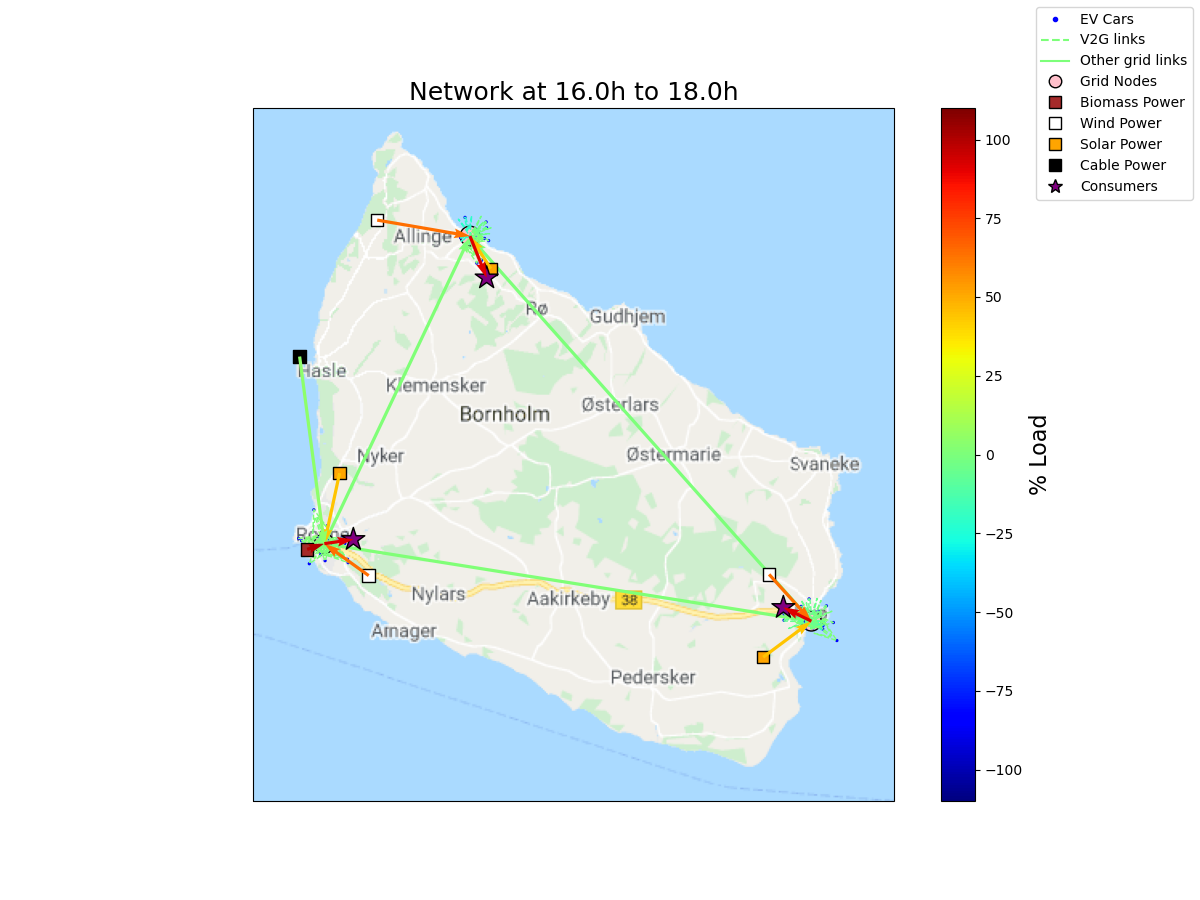
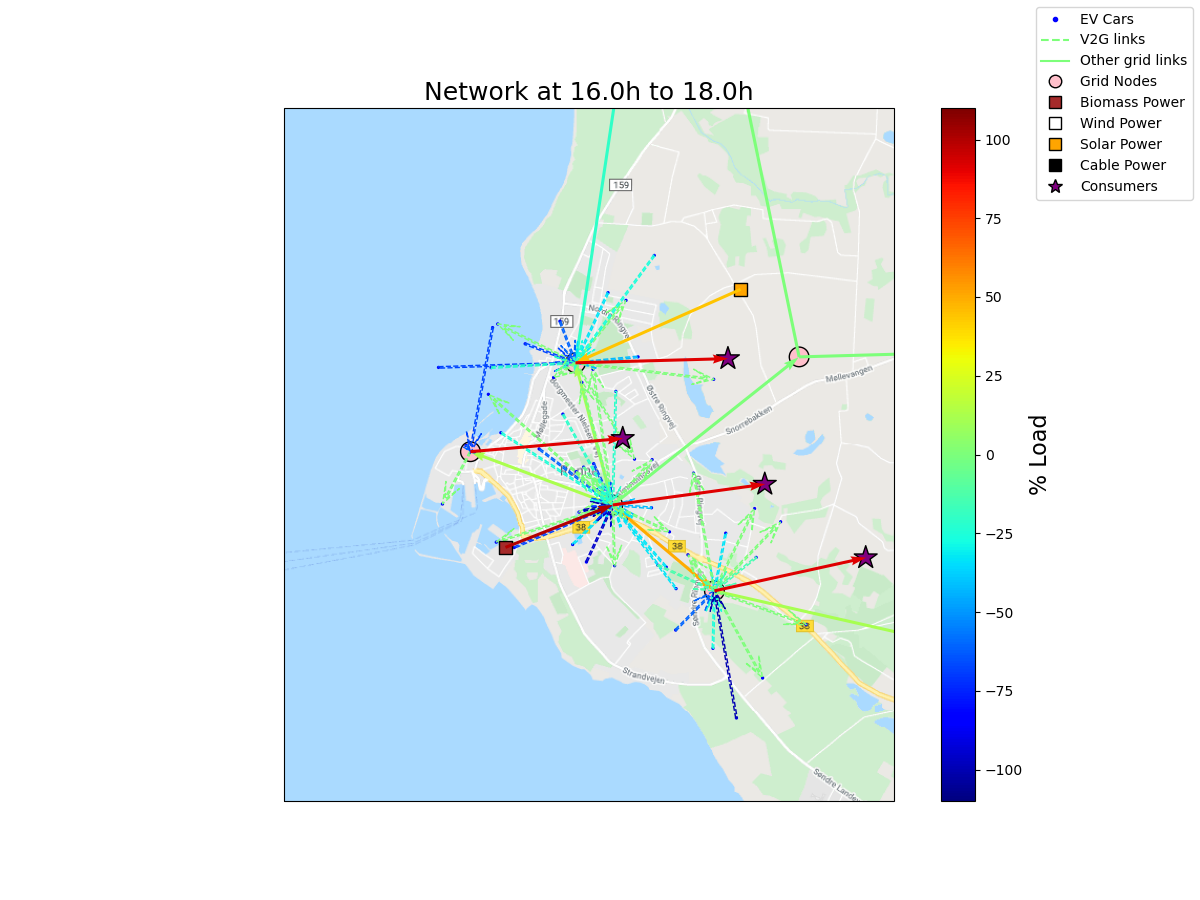
Full Network implementation; very plausible results

Changed region(s): [[0.185, 0.0933, 0.7708, 0.9022]]

diff --git a/Lib/grid_gen.py b/Lib/grid_gen.py
@@ -44,11 +44,11 @@ grid_links_base = grid_links_base.astype({"LinkId": int,
 
 
 if cfg.grid_setting == 1:
-    grid.loc["Ronne"] = [14.7110, 55.0966, 1500, "60kV Station", "Pink", 200]
+    grid.loc["Ronne"] = [14.713889, 55.097778, 1500, "60kV Station", "Pink", 200]
     grid_links_base["LinkId"] = grid_links_base.index
 
 elif cfg.grid_setting == 3:
-    grid.loc["Ronne"] = [14.7110, 55.0966, 1500, "60kV Station", "Pink", 200]
+    grid.loc["Ronne"] = [14.713889, 55.097778, 1500, "60kV Station", "Pink", 200]
     grid.loc["Nexo"]  = [15.1291, 55.0585, 1500, "60kV Station", "Pink", 200]
     grid.loc["Tejn"]  = [14.8360, 55.2474, 1500, "60kV Station", "Pink", 200]
     
@@ -57,22 +57,43 @@ elif cfg.grid_setting == 3:
     grid_links_base.loc[2, ["conn1", "conn2", "Cap"]] = ["Nexo",  "Tejn", 100000]
     
     grid_links_base["LinkId"] = grid_links_base.index
+    
 elif cfg.grid_setting == -1:
-    pass
-
-
-
-
-
-
-
-
-
-
-
-
-
-#%% grid links data frame --> time independent base
+    grid.loc["Akirkeby"]     = [14.897778, 55.068056, 1500, "60kV", "Pink", 200]
+    grid.loc["Allinge"]      = [14.800278, 55.268333, 1500, "60kV", "Pink", 200]
+    grid.loc["Bodilsker"]    = [15.065833, 55.063056, 1500, "60kV", "Pink", 200]
+    grid.loc["Dalslunde"]    = [15.050833, 55.100000, 1500, "60kV", "Pink", 200]
+    grid.loc["Gudhjem"]      = [14.953056, 55.199167, 1500, "60kV", "Pink", 200]
+    grid.loc["Hasle"]        = [14.723333, 55.170278, 1500, "60kV", "Pink", 200]
+    grid.loc["Nexo"]         = [15.115833, 55.063056, 1500, "60kV", "Pink", 200]
+    grid.loc["Olsker"]       = [14.795556, 55.231944, 1500, "60kV", "Pink", 200]
+    grid.loc["Osterlars"]    = [14.935000, 55.153333, 1500, "60kV", "Pink", 200]
+    grid.loc["Poulsker"]     = [15.055833, 55.022222, 1500, "60kV", "Pink", 200]
+    grid.loc["Ronne"]        = [14.713889, 55.097778, 1500, "60kV", "Pink", 200]
+    grid.loc["Ronne Nord"]   = [14.707778, 55.111111, 1500, "60kV", "Pink", 200]
+    grid.loc["Ronne Syd"]    = [14.730556, 55.089722, 1500, "60kV", "Pink", 200]
+    grid.loc["Snorrebakken"] = [14.744444, 55.111667, 1500, "60kV", "Pink", 200]
+    grid.loc["Svaneke"]      = [15.136111, 55.134722, 1500, "60kV", "Pink", 200]
+    grid.loc["Vesthavnen"]   = [14.690556, 55.102778, 1500, "60kV", "Pink", 200]
+    
+    grid_links_base.loc[0] = [0, "Ronne", "Ronne Syd", 10000]
+    grid_links_base.loc[1] = [1, "Ronne", "Ronne Nord", 10000]
+    grid_links_base.loc[2] = [2, "Ronne", "Vesthavnen", 10000]
+    grid_links_base.loc[3] = [3, "Ronne", "Snorrebakken", 10000]
+    grid_links_base.loc[4] = [4, "Ronne Nord", "Hasle", 10000]
+    grid_links_base.loc[5] = [5, "Snorrebakken", "Hasle", 10000]
+    grid_links_base.loc[6] = [6, "Ronne Syd", "Akirkeby", 10000]
+    grid_links_base.loc[7] = [7, "Akirkeby", "Bodilsker", 10000]
+    grid_links_base.loc[8] = [8, "Bodilsker", "Poulsker", 10000]
+    grid_links_base.loc[9] = [9, "Bodilsker", "Nexo", 10000]
+    grid_links_base.loc[10] = [10, "Nexo", "Svaneke", 10000]
+    grid_links_base.loc[11] = [11, "Dalslunde", "Bodilsker", 10000]
+    grid_links_base.loc[12] = [12, "Dalslunde", "Svaneke", 10000]
+    grid_links_base.loc[13] = [13, "Dalslunde", "Osterlars", 10000]
+    grid_links_base.loc[14] = [14, "Hasle", "Olsker", 10000]
+    grid_links_base.loc[15] = [15, "Olsker", "Allinge", 10000]
+    grid_links_base.loc[16] = [16, "Olsker", "Osterlars", 10000]
+    grid_links_base.loc[17] = [17, "Osterlars", "Gudhjem", 10000]
 
 
 

diff --git a/Lib/pp_gen.py b/Lib/pp_gen.py
@@ -34,7 +34,7 @@ pp_data_base = pd.DataFrame(columns=["PPId",
 
 
 if cfg.grid_setting == 1:
-    pp_data_base.loc["Biomass"]    = [0, "Biomass",    14.6963, 55.0938, "Biomass", 
+    pp_data_base.loc["Kraftvaerk"] = [0, "Kraftvaerk",    14.6963, 55.0938, "Biomass", 
                                       "sustainable", "Ronne", "Brown", 80]
     pp_data_base.loc["WindWest"]   = [1, "WindWest",   14.7491, 55.0809, "Wind",
                                       "sustainable", "Ronne", "White", 80]
@@ -43,8 +43,8 @@ if cfg.grid_setting == 1:
     pp_data_base.loc["SolarWest"]  = [3, "SolarWest",  14.7241, 55.1312, "Solar",
                                       "sustainable", "Ronne", "Orange", 80]
 elif cfg.grid_setting == 3:
-    pp_data_base.loc["Biomass"]    = [0, "Biomass",    14.6963, 55.0938, "Biomass", 
-                                      "sustainable", "Ronne", "Brown", 80]
+    pp_data_base.loc["Kraftvaerk"] = \
+      [0, "Kraftvaerk", 14.6963, 55.0938, "Biomass", "sustainable", "Ronne", "Brown", 80]
     pp_data_base.loc["WindWest"]   = [1, "WindWest",   14.7491, 55.0809, "Wind",
                                       "sustainable", "Ronne", "White", 80]
     pp_data_base.loc["WindNorth"]  = [2, "WindNorth",  14.7564, 55.2552, "Wind",
@@ -64,10 +64,31 @@ elif cfg.grid_setting == 3:
     pp_data_base.loc["Cable"]      = [7, "Cable",      14.6898, 55.1884, "Cable",
                                       "unsustainable", "Ronne", "Black", 80]
 elif cfg.grid_setting == -1:
-    pass
+    pp_data_base.loc["Kraftvaerk", ["Long","Lat","Type","Sustainability","GridConn","Color","Size"]] = \
+      [14.6963, 55.0938, "Biomass", "sustainable", "Ronne", "Brown", 80]
+    
+    pp_data_base.loc["WindNorth", ["Long","Lat","Type","Sustainability","GridConn","Color","Size"]] = \
+      [14.740725, 55.237306, "Wind",    "sustainable", "Olsker", "White", 80]
+    pp_data_base.loc["WindWest", ["Long","Lat","Type","Sustainability","GridConn","Color","Size"]] = \
+      [14.74993, 55.18200, "Wind",    "sustainable", "Hasle", "White", 80]
+    pp_data_base.loc["WindSouth", ["Long","Lat","Type","Sustainability","GridConn","Color","Size"]] = \
+      [14.84812, 55.05616, "Wind",    "sustainable", "Akirkeby", "White", 80]
+    pp_data_base.loc["WindEast", ["Long","Lat","Type","Sustainability","GridConn","Color","Size"]] = \
+      [15.02331, 55.05478, "Wind",    "sustainable", "Bodilsker", "White", 80]
 
-
-
+    pp_data_base.loc["SolarNorth", ["Long","Lat","Type","Sustainability","GridConn","Color","Size"]] = \
+      [14.84209, 55.24465, "Solar",    "sustainable", "Olsker", "Orange", 80]
+    pp_data_base.loc["SolarWest", ["Long","Lat","Type","Sustainability","GridConn","Color","Size"]] = \
+      [14.73486, 55.11800, "Solar",    "sustainable", "Ronne Nord", "Orange", 80]
+    pp_data_base.loc["SolarEast", ["Long","Lat","Type","Sustainability","GridConn","Color","Size"]] = \
+      [15.09376, 55.01898, "Solar",    "sustainable", "Poulsker", "Orange", 80]
+      
+    pp_data_base.loc["SeaCable", ["Long","Lat","Type","Sustainability","GridConn","Color","Size"]] = \
+      [14.68108, 55.18534, "Cable",    "unsustainable", "Hasle", "Black", 80]
+    
+    pp_data_base["PPId"] = range(9)
+    pp_data_base["Name"] = pp_data_base.index
+    
 pp_data_base = pp_data_base.astype({"PPId": int,
                                     "Name": str,
                                     "Long": float, 

diff --git a/Lib/SimConfig.py b/Lib/SimConfig.py
@@ -14,10 +14,10 @@ import numpy as np
 seed = 2
 
 # car config
-N = 50  # number of cars
+N = 100  # number of cars
 
 # grid config
-grid_setting = 3
+grid_setting = -1
 
 # consumer config kW
 cons_mean = 30000
@@ -30,14 +30,17 @@ elif grid_setting == 3:
     rel_car_distribution = [2, 2, 1]
     rel_cons_distribution = [3, 1, 1]
 elif grid_setting == -1:
-    raise NotImplementedError("Only grid settings are 1 and 3")
+    rel_car_distribution = [2, 1.5, 0.2, 0, 0.7, 1.6, 3.6, 0.2,
+                             0.25, 0.7, 6, 3, 3, 0, 1, 1]
+    rel_cons_distribution = [2, 1.5, 0.2, 0, 0.7, 1.6, 3.6, 0.2,
+                             0.25, 0.7, 6, 3, 3, 0, 1, 1]
     
 
 # powerplant config
 max_caps = {"Biomass": 15000,
             "Wind": 20000,
             "Solar": 5000,
-            "Cable": 50000,
+            "Cable": 25000,
             }
 
 # power cost

diff --git a/verify_TimeDep.py b/verify_TimeDep.py
@@ -31,7 +31,7 @@ axs[0].plot(cfg.t, sus_sum["sustainable"],
 
 # plot total power available
 axs[0].plot(cfg.t, sus_sum.groupby("Time").sum(),
-            label="Total Capacity", linestyle="--")
+            label="Total Capacity", linestyle="--", color="k")
 
     
 axs[0].legend(fontsize=9, loc="upper right")
@@ -69,6 +69,6 @@ axs[1].legend(fontsize=9)
 axs[1].grid()
 axs[1].set_xlim(left=0, right=24)
 axs[1].set_ylim(bottom=0)
-axs[1].set_title("Consumer Demand", fontsize=18)
+axs[1].set_title("Consumer Demand vs Supply", fontsize=18)
 axs[1].set_xlabel("Time of Day [h]", fontsize=16)
-axs[1].set_ylabel("Consumer Demand [kW]", fontsize=16)
+axs[1].set_ylabel("Consumer Demand / Supply [kW]", fontsize=16)

diff --git a/Lib/grid.py b/Lib/grid.py
@@ -111,11 +111,12 @@ class net:
             p_p_idx = pp_data_base.loc[pp_data_base["GridConn"] == index, 
                                        "PPId"]
             
-            
+            print(index)
             for j in range(cfg.K):
                 # sum of customer demands at this location
                 d_sum = -n_d.iat[j]
-                
+                print(p_l_idx)
+                __ = [ self.links[i].L for i in p_l_idx ]
                 # sum of links
                 l_sum = ( sum([ self.links[i].L[j] for i in p_l_idx ])
                              - sum([ self.links[i].L[j] for i in n_l_idx ])

diff --git a/complex.py b/complex.py
@@ -228,7 +228,7 @@ if cartopy_exists:
     outpath = "./plots/"
     fnamebase = "test"
     
-    if cfg.grid_setting == 1:
+    if cfg.grid_setting == -1:
         map_extent = [14.66, 14.76, 55.07, 55.135]; zoomlevel = 13; # Ronne
     else:
         map_extent = [14.65, 15.2, 54.97, 55.31]; zoomlevel = 10; # all of Bornholm 
